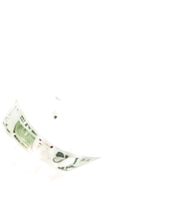
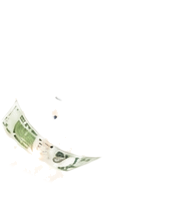
fix: 선택 시안 기준 돈 폭발 효과 복원

diff --git a/src/components/MoneyRain.tsx b/src/components/MoneyRain.tsx
@@ -2,15 +2,24 @@ import type { CSSProperties } from 'react';
 import './MoneyRain.css';
 
 const notePaths = [
-  ['-175px', '-300px', '-61px', '-105px', '-210px', '-360px', '-26deg'],
-  ['175px', '-280px', '61px', '-98px', '210px', '-336px', '22deg'],
-  ['-190px', '60px', '-67px', '21px', '-228px', '72px', '-18deg'],
-  ['190px', '90px', '67px', '32px', '228px', '108px', '28deg'],
-  ['-130px', '-340px', '-46px', '-119px', '-156px', '-408px', '-22deg'],
-  ['180px', '-160px', '63px', '-56px', '216px', '-192px', '31deg'],
-  ['-180px', '220px', '-63px', '77px', '-216px', '264px', '-30deg'],
-  ['160px', '320px', '56px', '112px', '192px', '384px', '24deg'],
-  ['0px', '-370px', '0px', '-130px', '0px', '-444px', '18deg'],
+  [9, '70px', '-205px', '-260px', '-72px', '-91px', '-225px', '-286px', '-24deg'],
+  [1, '120px', '-115px', '-310px', '-40px', '-109px', '-127px', '-341px', '-26deg'],
+  [2, '202px', '120px', '-345px', '42px', '-121px', '132px', '-380px', '22deg'],
+  [3, '130px', '135px', '-170px', '47px', '-60px', '149px', '-187px', '18deg'],
+  [9, '75px', '185px', '-135px', '65px', '-47px', '204px', '-149px', '28deg'],
+  [4, '145px', '-140px', '-90px', '-49px', '-32px', '-154px', '-99px', '-18deg'],
+  [5, '95px', '-190px', '-60px', '-67px', '-21px', '-209px', '-66px', '-24deg'],
+  [5, '155px', '157px', '-45px', '55px', '-16px', '173px', '-50px', '18deg'],
+  [9, '105px', '185px', '-15px', '65px', '-5px', '204px', '-17px', '31deg'],
+  [6, '60px', '-125px', '25px', '-44px', '9px', '-138px', '28px', '-30deg'],
+  [6, '55px', '-15px', '65px', '-5px', '23px', '-17px', '72px', '-14deg'],
+  [7, '90px', '120px', '45px', '42px', '16px', '132px', '50px', '24deg'],
+  [9, '70px', '185px', '20px', '65px', '7px', '204px', '22px', '28deg'],
+  [8, '165px', '-120px', '100px', '-42px', '35px', '-132px', '110px', '-22deg'],
+  [7, '145px', '140px', '105px', '49px', '37px', '154px', '116px', '24deg'],
+  [8, '220px', '-165px', '280px', '-58px', '98px', '-182px', '308px', '-24deg'],
+  [9, '190px', '145px', '275px', '51px', '96px', '160px', '303px', '22deg'],
+  [9, '165px', '170px', '320px', '60px', '112px', '187px', '352px', '28deg'],
 ] as const;
 
 const confettiPaths = [
@@ -34,17 +43,15 @@ const confettiPaths = [
   ['0px', '-380px', '0px', '-133px', '0px', '-456px', '180deg'],
 ] as const;
 
-const burstDelays = ['0ms', '-1100ms'] as const;
-
 export default function MoneyRain() {
   return (
     <div className="money-rain" aria-hidden="true">
       <img className="money-burst" src="/severance-burst.png" alt="" />
-      {burstDelays.flatMap((delay, burstIndex) => notePaths.map(([endX, endY, kickX, kickY, farX, farY, rotation], index) => (
+      {notePaths.map(([asset, size, endX, endY, kickX, kickY, farX, farY, rotation], index) => (
         <img
           className="money-note"
-          key={`money-${burstIndex}-${index}`}
-          src={`/money-note-${index + 1}.png`}
+          key={`money-${index}`}
+          src={`/money-note-${asset}.png`}
           alt=""
           style={{
             '--end-x': endX,
@@ -54,14 +61,14 @@ export default function MoneyRain() {
             '--far-x': farX,
             '--far-y': farY,
             '--note-rotation': rotation,
-            '--burst-delay': delay,
+            '--note-size': size,
           } as CSSProperties}
         />
-      )))}
-      {burstDelays.flatMap((delay, burstIndex) => confettiPaths.map(([endX, endY, kickX, kickY, farX, farY, rotation], index) => (
+      ))}
+      {confettiPaths.map(([endX, endY, kickX, kickY, farX, farY, rotation], index) => (
         <img
           className="confetti-piece"
-          key={`confetti-${burstIndex}-${index}`}
+          key={`confetti-${index}`}
           src={`/confetti-piece-${(index % 5) + 1}.png`}
           alt=""
           style={{
@@ -72,10 +79,9 @@ export default function MoneyRain() {
             '--far-x': farX,
             '--far-y': farY,
             '--note-rotation': rotation,
-            '--burst-delay': delay,
           } as CSSProperties}
         />
-      )))}
+      ))}
     </div>
   );
 }

diff --git a/src/components/MoneyRain.css b/src/components/MoneyRain.css
@@ -14,27 +14,26 @@
   object-fit: fill;
   opacity: 1;
   filter: saturate(3.2) contrast(1.18);
-  animation: burst-pop 1100ms cubic-bezier(.2,.75,.3,1) infinite;
+  animation: burst-pop 2400ms cubic-bezier(.2,.75,.3,1) infinite;
 }
 
 .money-note,
 .confetti-piece {
   position: absolute;
-  top: 44%;
+  top: 45%;
   left: 50%;
   object-fit: contain;
   opacity: 0;
-  animation: note-firework 2200ms cubic-bezier(.12,.68,.2,1) var(--burst-delay) infinite;
+  animation: note-firework 2400ms linear infinite;
 }
 .money-note {
-  width: 84px;
-  height: 84px;
-  filter: drop-shadow(0 8px 7px rgba(34,39,32,.18));
+  width: var(--note-size);
+  height: var(--note-size);
+  filter: contrast(1.08) saturate(1.05) drop-shadow(0 8px 7px rgba(34,39,32,.18));
 }
-.money-note:nth-of-type(3n) { width: 96px; height: 96px; }
-.money-note:nth-of-type(4n) { width: 72px; height: 72px; }
-.confetti-piece { width: 24px; height: 24px; }
-.confetti-piece:nth-of-type(2n) { width: 19px; height: 19px; }
+.confetti-piece { width: 23px; height: 23px; }
+.confetti-piece:nth-of-type(3n) { width: 34px; height: 34px; }
+.confetti-piece:nth-of-type(5n) { width: 29px; height: 29px; }
 
 @keyframes burst-pop {
   0% { opacity: .58; transform: scale(.97); }
@@ -48,14 +47,17 @@
     opacity: 0;
     transform: translate(-50%, -50%) rotate(0) scale(.12);
   }
-  8% {
-    opacity: .16;
-    transform: translate(calc(-50% + var(--kick-x)), calc(-50% + var(--kick-y))) rotate(0) scale(.58);
+  2% {
+    opacity: 0;
+    transform: translate(calc(-50% + var(--kick-x)), calc(-50% + var(--kick-y))) rotate(0) scale(.88);
   }
+  6% { opacity: .25; }
+  18% { opacity: .5; }
   58% {
     opacity: 1;
     transform: translate(calc(-50% + var(--end-x)), calc(-50% + var(--end-y))) rotate(var(--note-rotation)) scale(1.05);
   }
+  88% { opacity: .62; }
   100% {
     opacity: 0;
     transform: translate(calc(-50% + var(--far-x)), calc(-50% + var(--far-y))) rotate(var(--note-rotation)) scale(.78);

diff --git a/scripts/extract_motion_assets.py b/scripts/extract_motion_assets.py
@@ -43,7 +43,9 @@ def crop_note(
     shape_mask = Image.new("L", note.size, 0)
     ImageDraw.Draw(shape_mask).polygon(polygon, fill=255)
     shape_mask = shape_mask.filter(ImageFilter.GaussianBlur(1.4))
-    note.putalpha(ImageChops.multiply(alpha, shape_mask).filter(ImageFilter.GaussianBlur(0.45)))
+    isolated_alpha = ImageChops.multiply(alpha, shape_mask).filter(ImageFilter.GaussianBlur(0.25))
+    isolated_alpha = isolated_alpha.point(lambda value: min(255, int(value * 1.65)))
+    note.putalpha(isolated_alpha)
     note.save(PUBLIC / name)
 
 
@@ -75,7 +77,7 @@ for red, green, blue, _ in burst.getdata():
         and brightness < 253
     )
     gray_note_detail = colorful < 28 and brightness < 205
-    gold_alpha = max(max(0, gold - 7) * 2.15, max(0, 250 - blue) * 5.0)
+    gold_alpha = max(max(0, gold - 3) * 2.75, max(0, 252 - blue) * 5.35)
     color_alpha = max(0, colorful - 24) * 3.1
     alpha = int(min(225, max(gold_alpha, color_alpha)))
     if green_note or gray_note_detail:
